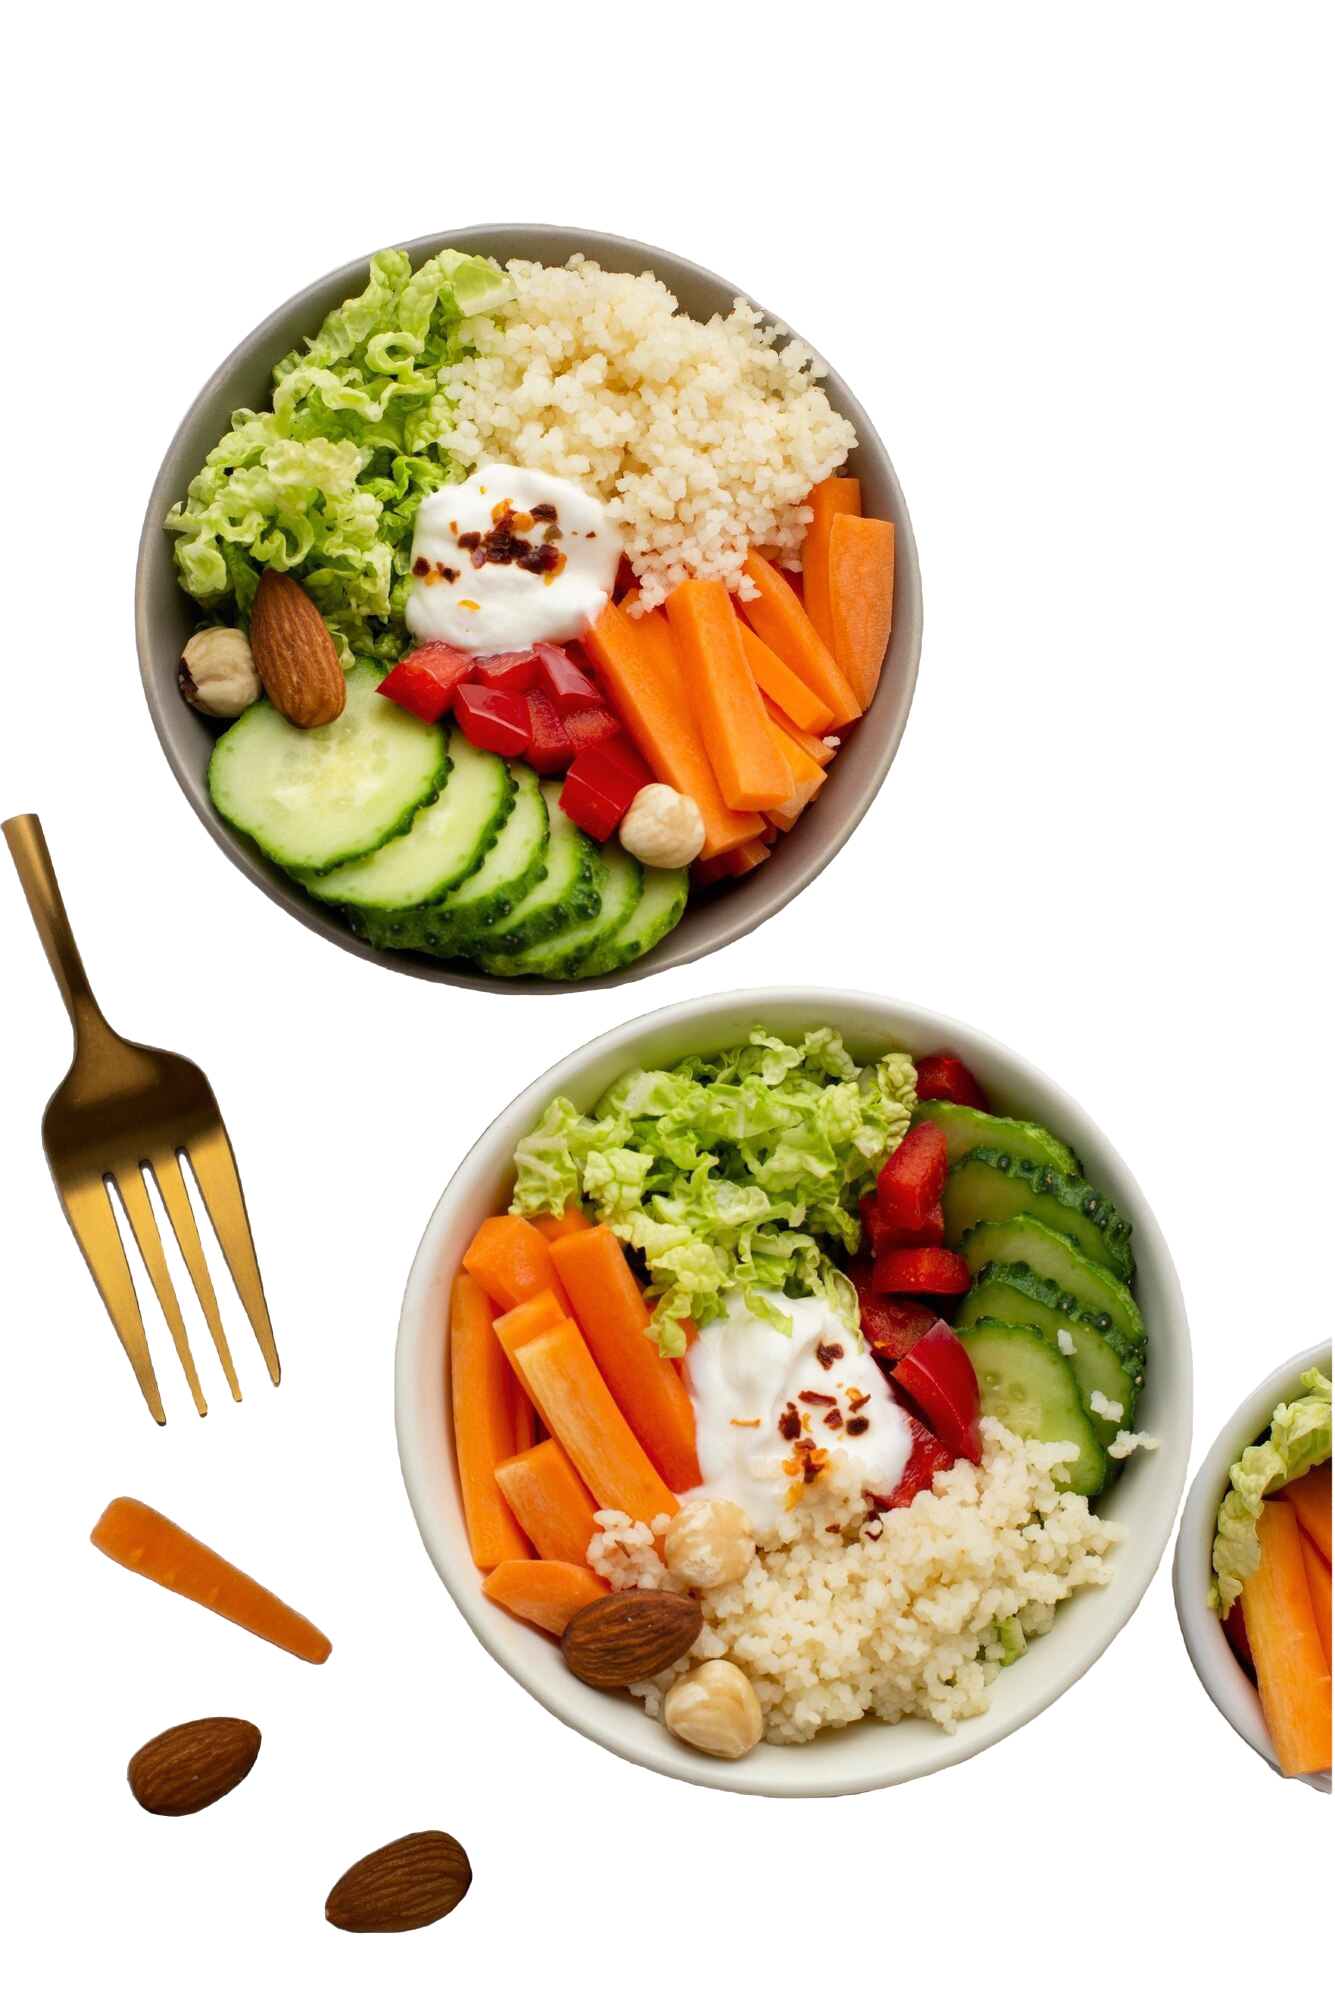
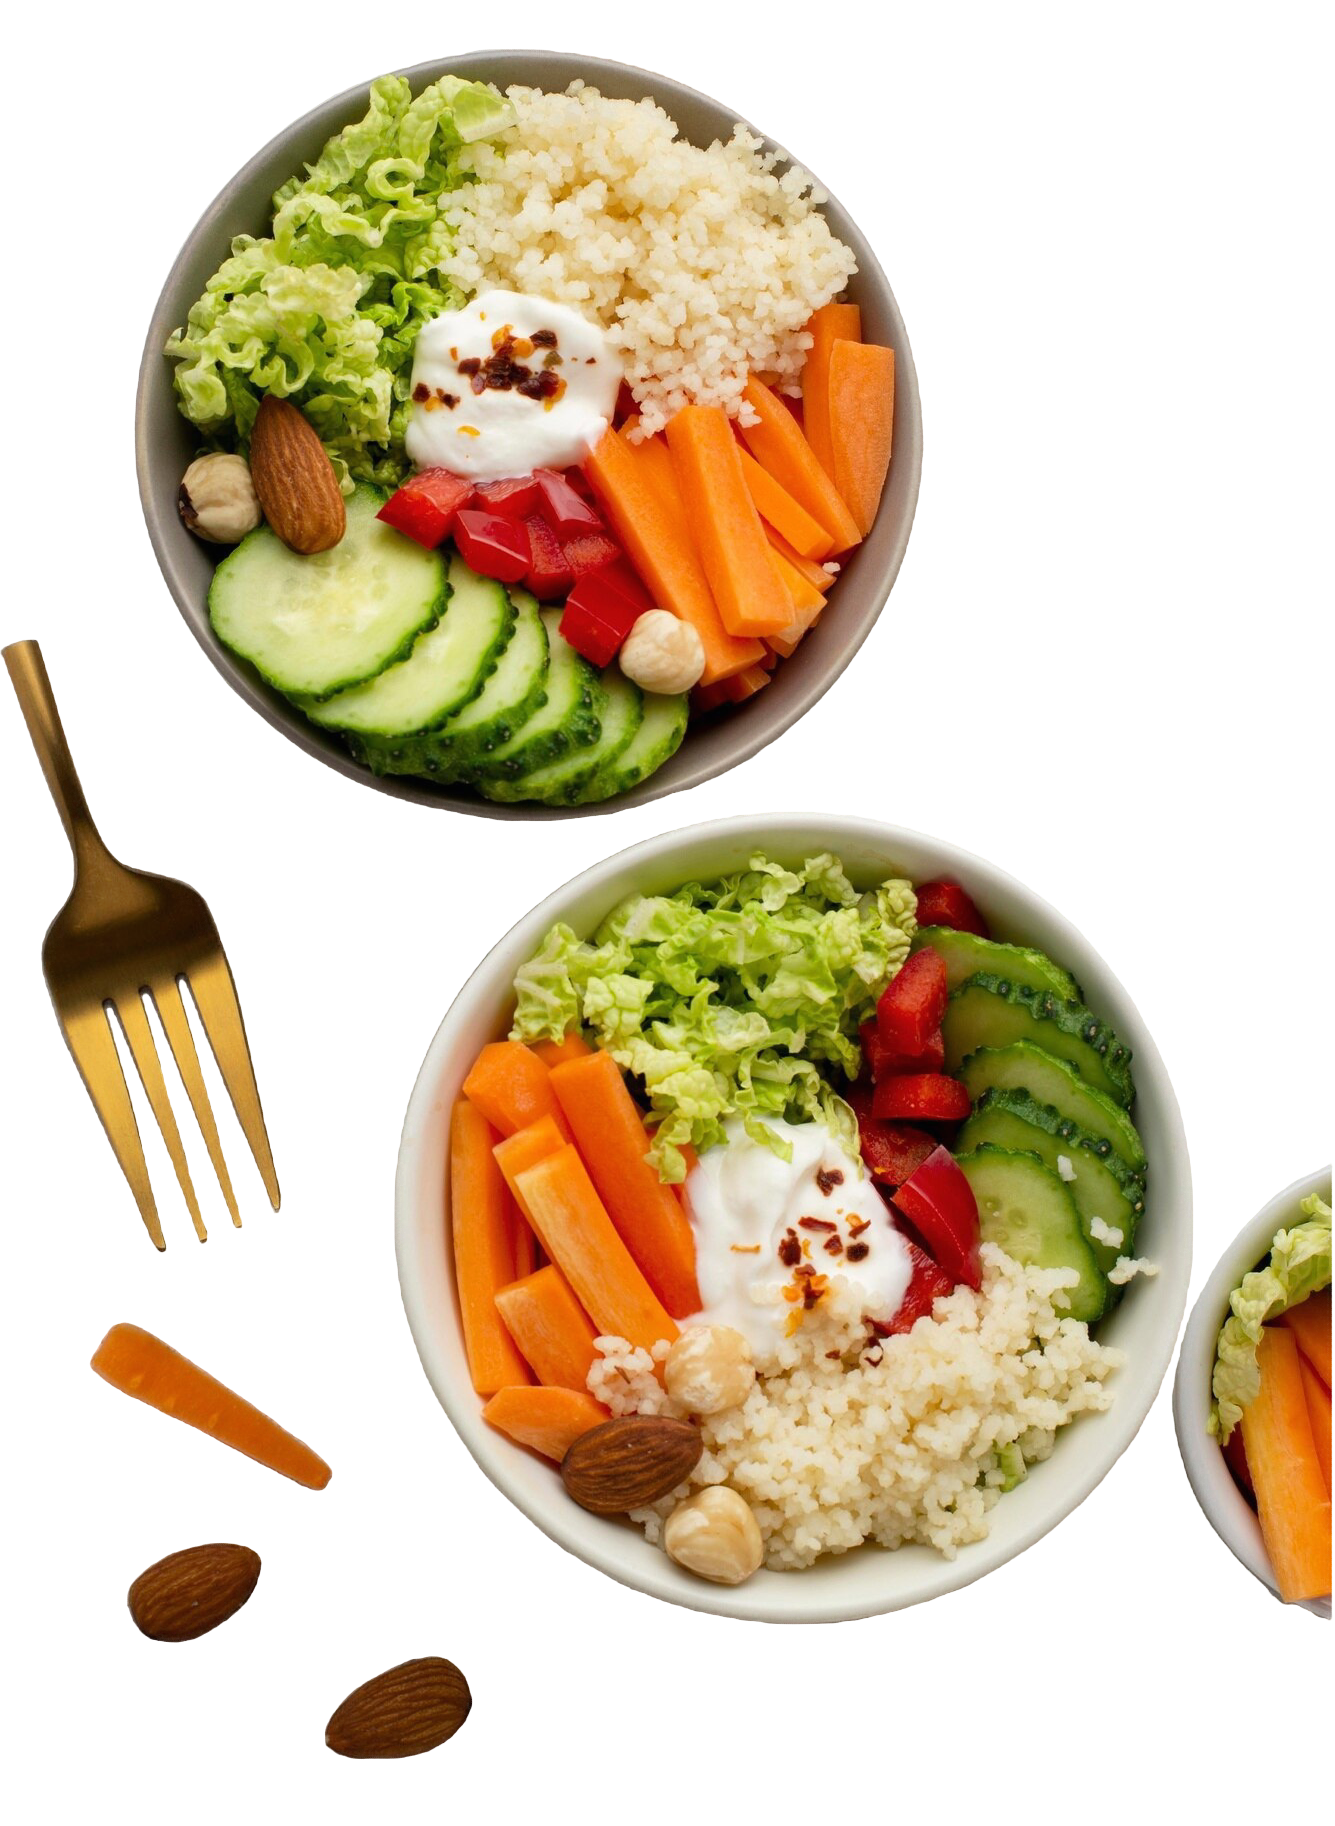
header image modified so that it doesn't hide the link rels in the navigation bar

diff --git a/src/Components/Header.css b/src/Components/Header.css
@@ -47,9 +47,10 @@ header .left h2{
 header .right img{
     height: 95vh;
     width: auto;
-    margin-top: -8vh;
+    margin-top: 0vh;
     margin-right: 5vw;
     filter: drop-shadow(5px 5px 5px #222);
+    padding-top: 0%;
 }
 
 header .left button{
@@ -101,7 +102,7 @@ header .left button:hover{
     header .right img{
         width: 40vw;
         height: auto;
-        padding-top: 20%;
+        padding-top: 5%;
     }
     header .left h2{
         font-size: 40px;
